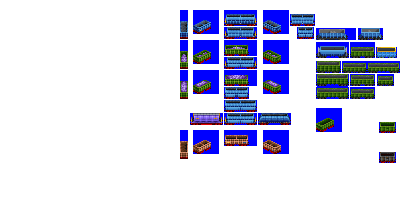
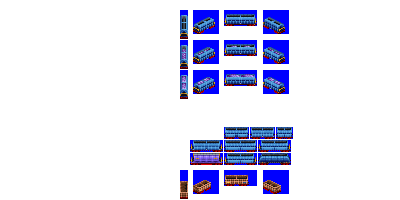
Change: gen 5C side door hopper complete

diff --git a/src/vehicles/pony/side_door_hopper_cars_pony.py b/src/vehicles/pony/side_door_hopper_cars_pony.py
@@ -65,7 +65,7 @@ def main(roster_id, **kwargs):
         base_numeric_id=35390,
         gen=5,
         subtype="C",
-        sprites_complete=False,
+        sprites_complete=True,
     )
 
     consist.add_unit(type=FreightCar, chassis="4_axle_sparse_32px")
